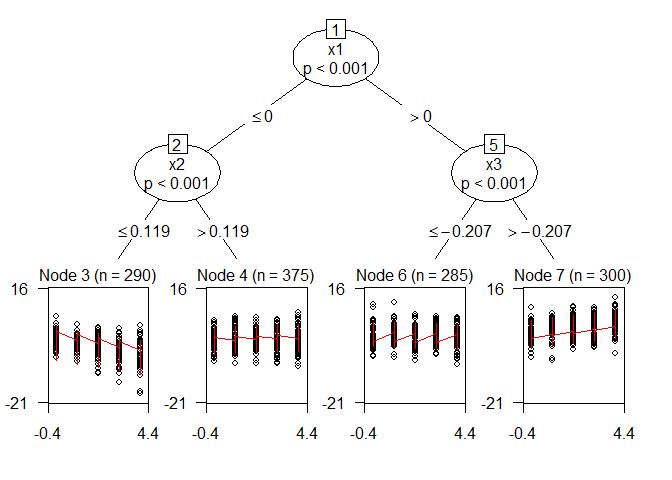
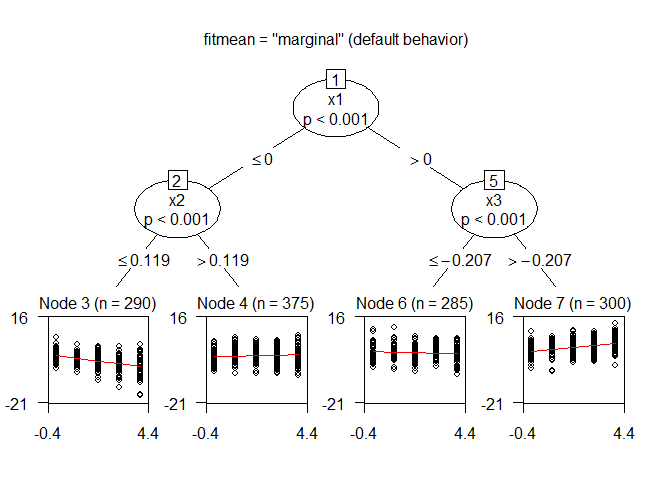
updates

diff --git a/glmertree update 7-5-2019/glmertree_updates_7-5-2019.md b/glmertree update 7-5-2019/glmertree_updates_7-5-2019.md
@@ -161,7 +161,7 @@ We could include option `which = "coef"`, in which case coefficients from the tr
 coefs <- coef(lmt1)
 dotchart(coefs, labels = paste("node", rownames(coefs)),
          xlab = "Estimated coefficients",
-         main = "Fixed effects from tree", cex= .7)
+         main = "Fixed effects from tree", cex= .6)
 ```
 
 ![](glmertree_updates_7-5-2019_files/figure-markdown_github/unnamed-chunk-5-1.png)
@@ -202,26 +202,31 @@ lt.growth <- lmertree(y ~ time | person | x1 + x2 + x3 + x4 + x5,
                       cluster = person, data = GrowthCurveDemo)
 lt.growth <- lmertree(y ~ time | (x6 + (1|person)) | x1 + x2 + x3 + x4 + x5, 
                       cluster = person, data = GrowthCurveDemo)
-
-plot.lmertree2(lt.growth, type = "simple")
 ```
 
-![](glmertree_updates_7-5-2019_files/figure-markdown_github/unnamed-chunk-7-1.png)
-
 ``` r
-plot.lmertree2(lt.growth, fitmean = "none", which = "tree")
+plot.lmertree2(lt.growth, type = "simple", main = 'type = "simple"')
 ```
 
 ![](glmertree_updates_7-5-2019_files/figure-markdown_github/unnamed-chunk-8-1.png)
 
 ``` r
-plot.lmertree2(lt.growth, fitmean = "combined", which = "tree")
+plot.lmertree2(lt.growth, fitmean = "marginal", which = "tree",
+               main = 'fitmean = "marginal" (default behavior)')
 ```
 
 ![](glmertree_updates_7-5-2019_files/figure-markdown_github/unnamed-chunk-9-1.png)
 
 ``` r
-plot.lmertree2(lt.growth, fitmean = "marginal", which = "tree")
+plot.lmertree2(lt.growth, fitmean = "none", which = "tree", 
+               main = 'fitmean = "none"')
 ```
 
 ![](glmertree_updates_7-5-2019_files/figure-markdown_github/unnamed-chunk-10-1.png)
+
+``` r
+plot.lmertree2(lt.growth, fitmean = "combined", which = "tree",
+               main = 'fitmean = "combined"')
+```
+
+![](glmertree_updates_7-5-2019_files/figure-markdown_github/unnamed-chunk-11-1.png)
